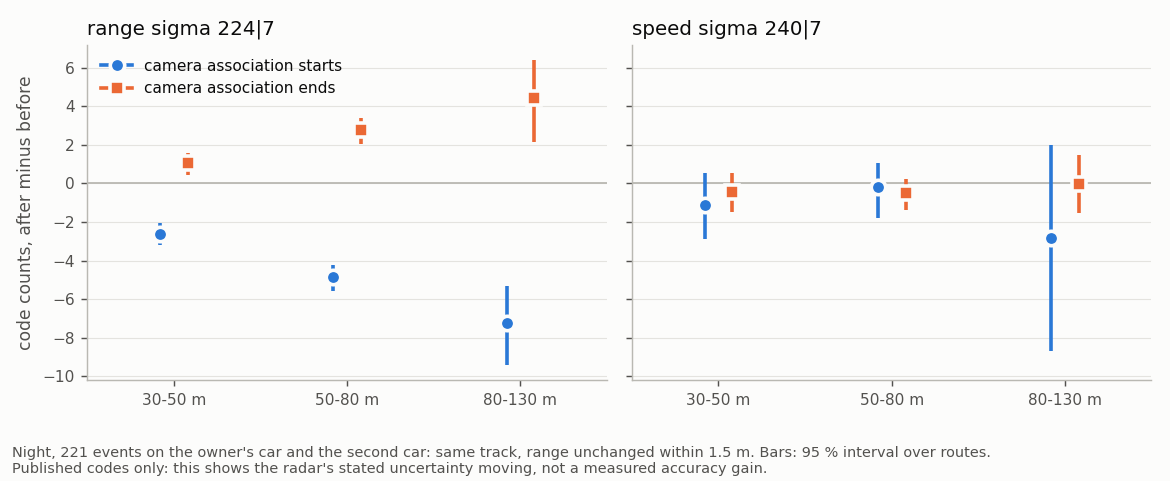
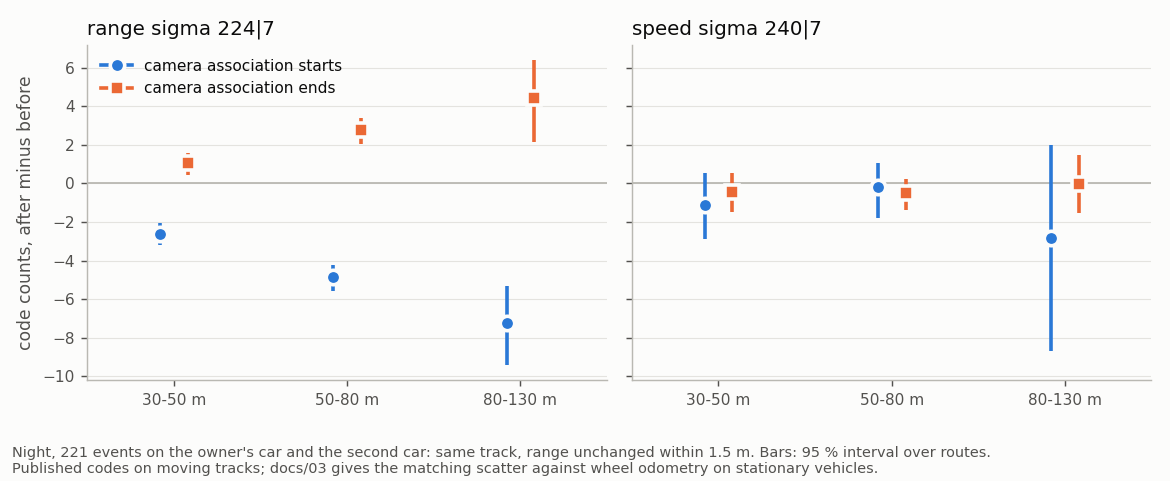
docs: range scatter against wheel odometry follows the camera association at night

Changed region(s): [[0.1231, 0.9667, 0.7385, 0.9979]]

diff --git a/tools/make_assoc_sigma_figure.py b/tools/make_assoc_sigma_figure.py
@@ -49,7 +49,7 @@ def main() -> None:
     axes[0].set_ylabel("code counts, after minus before"); axes[0].legend(loc="upper left")
     n = sum(r["events"] for r in rows)
     fig.text(0.01, 0.01, f"Night, {n} events on the owner's car and the second car: same track, range unchanged within 1.5 m. Bars: 95 % interval over routes.\n"
-             "Published codes only: this shows the radar's stated uncertainty moving, not a measured accuracy gain.", fontsize=8, color=INK2, ha="left", va="bottom")
+             "Published codes on moving tracks; docs/03 gives the matching scatter against wheel odometry on stationary vehicles.", fontsize=8, color=INK2, ha="left", va="bottom")
     fig.tight_layout(rect=(0, 0.11, 1, 1))
     fig.savefig(OUT / "camera_assoc_sigma.png", dpi=130)
 

diff --git a/docs/03_slot_fields.md b/docs/03_slot_fields.md
@@ -175,8 +175,8 @@ radar over another link):
 - The position stays continuous when the state changes (median lateral change 0.03 m, as on any other record).
 - **At night the published range and lateral sigma move with the state** on the same track at unchanged range (◐): `224|7` falls 4.2 counts [3.7, 4.8] when the camera association starts
   (negative on 98 % of 123 events) and rises 2.5 [1.8, 3.0] when it ends (positive on 91 % of 98), more at longer range; `232|8` falls 0.5 and rises 0.3. `240|7`, in the record's other update block, shows no clear step (−1.2 [−2.9, +0.3], −0.4 [−1.0, +0.3]).
-  No `224|7` step was seen by day at about 41 m (118 events). These are the radar's stated uncertainties on two cars, so they do not by themselves show that range gets more accurate or how much weight the camera has
-  ([`camera_assoc_sigma.json`](../data/analysis/summaries/camera_assoc_sigma.json)).
+  No `224|7` step was seen by day at about 41 m (118 events).
+- **The real range scatter moves the same way.** Against wheel odometry on stationary vehicles at equal range, fast range scatter with association is 0.66 [0.59, 0.78] of that without it at night on the owner's car and the second car, and 0.80 [0.68, 0.97] on 42 fleet cars, with `224|7` at 0.74 and 0.81. By day below 50 m there is no reduction: 1.11 [1.03, 1.19] and 1.02 [0.96, 1.09], `224|7` 1.08 and 1.03. This compares different objects and covers fast scatter only, so it does not give the range bias or the camera's weight ([`camera_assoc_sigma.json`](../data/analysis/summaries/camera_assoc_sigma.json)).
 
   ![Night steps of the range and speed sigma codes when the camera association starts or ends](img/analysis/camera_assoc_sigma.png)
 
